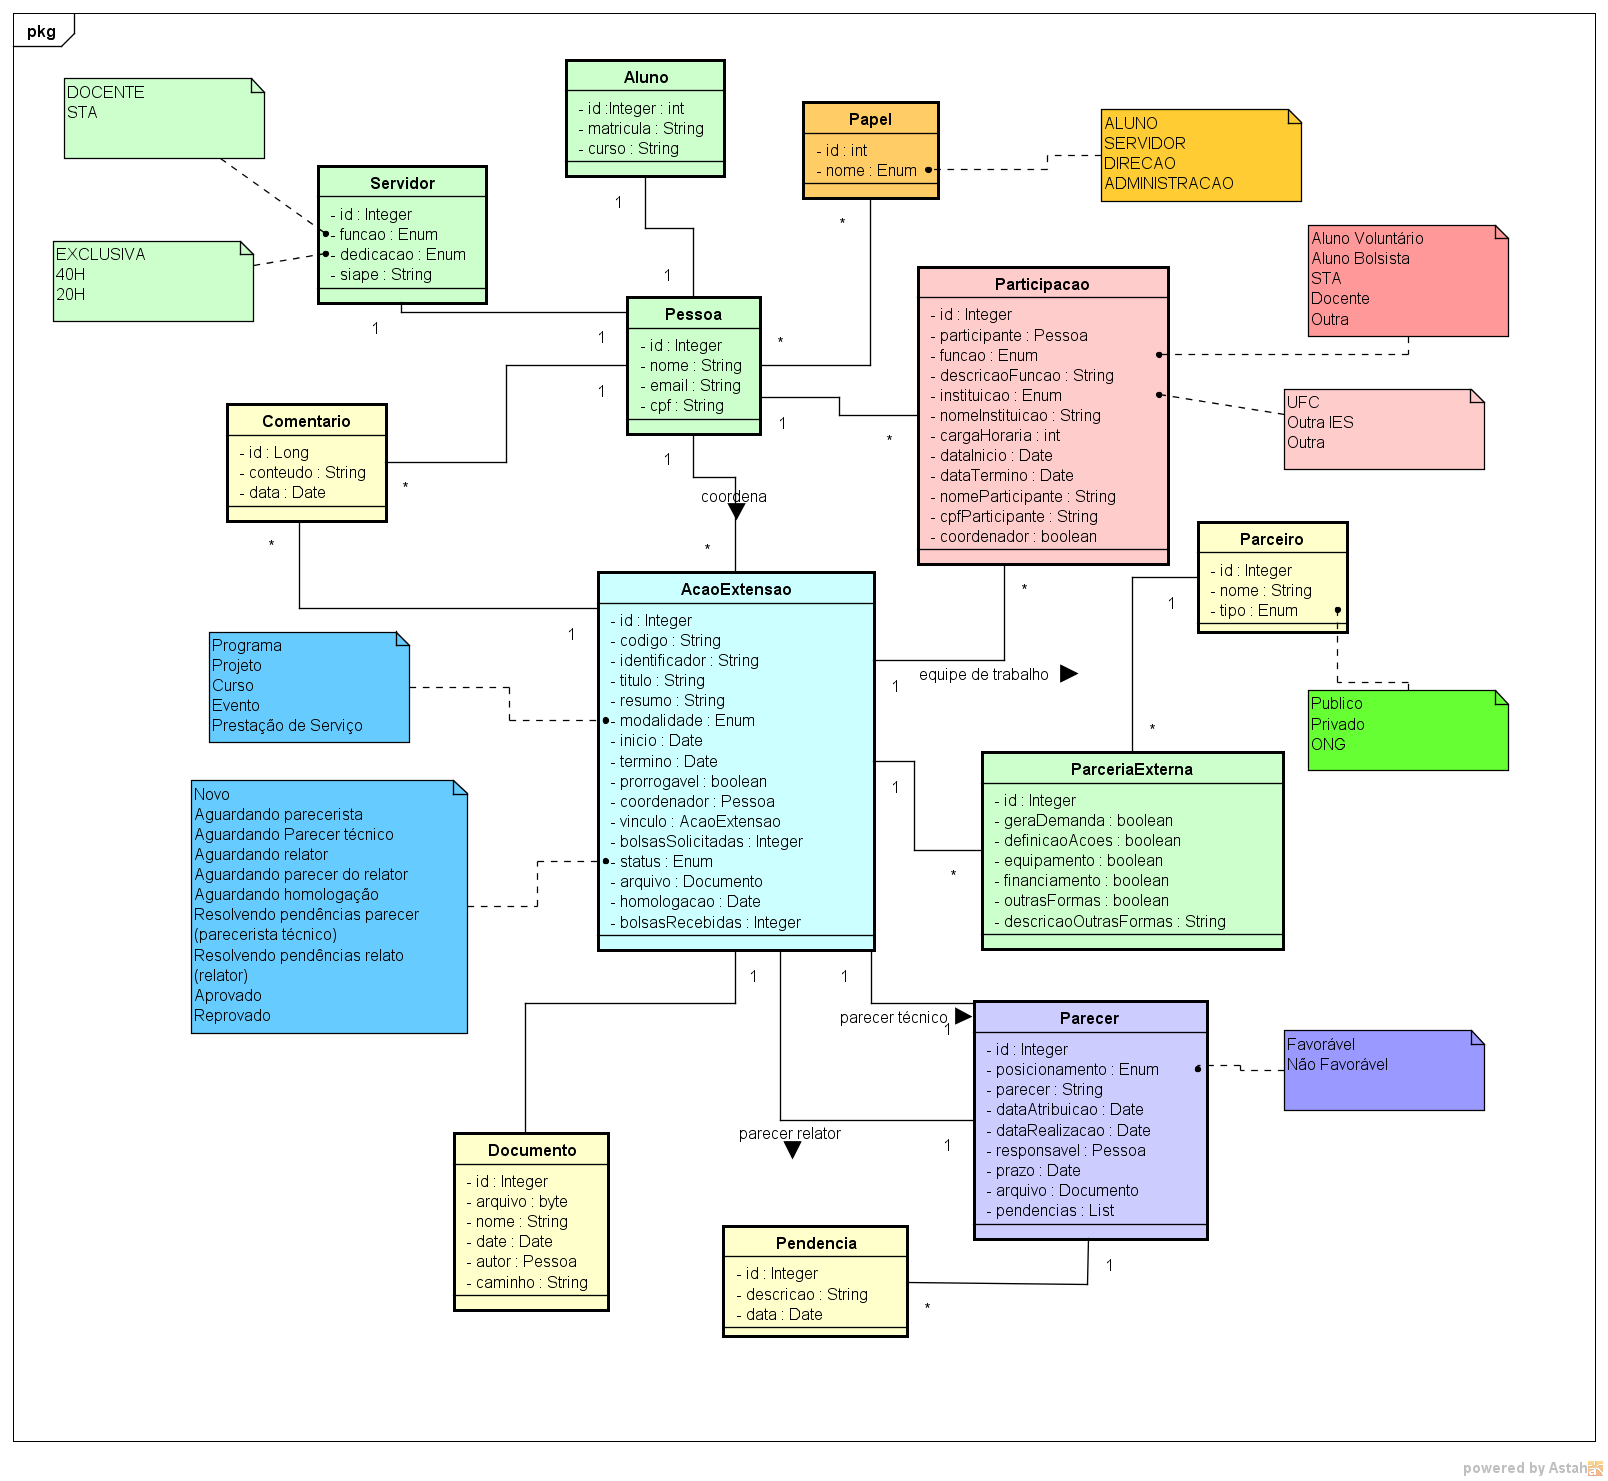
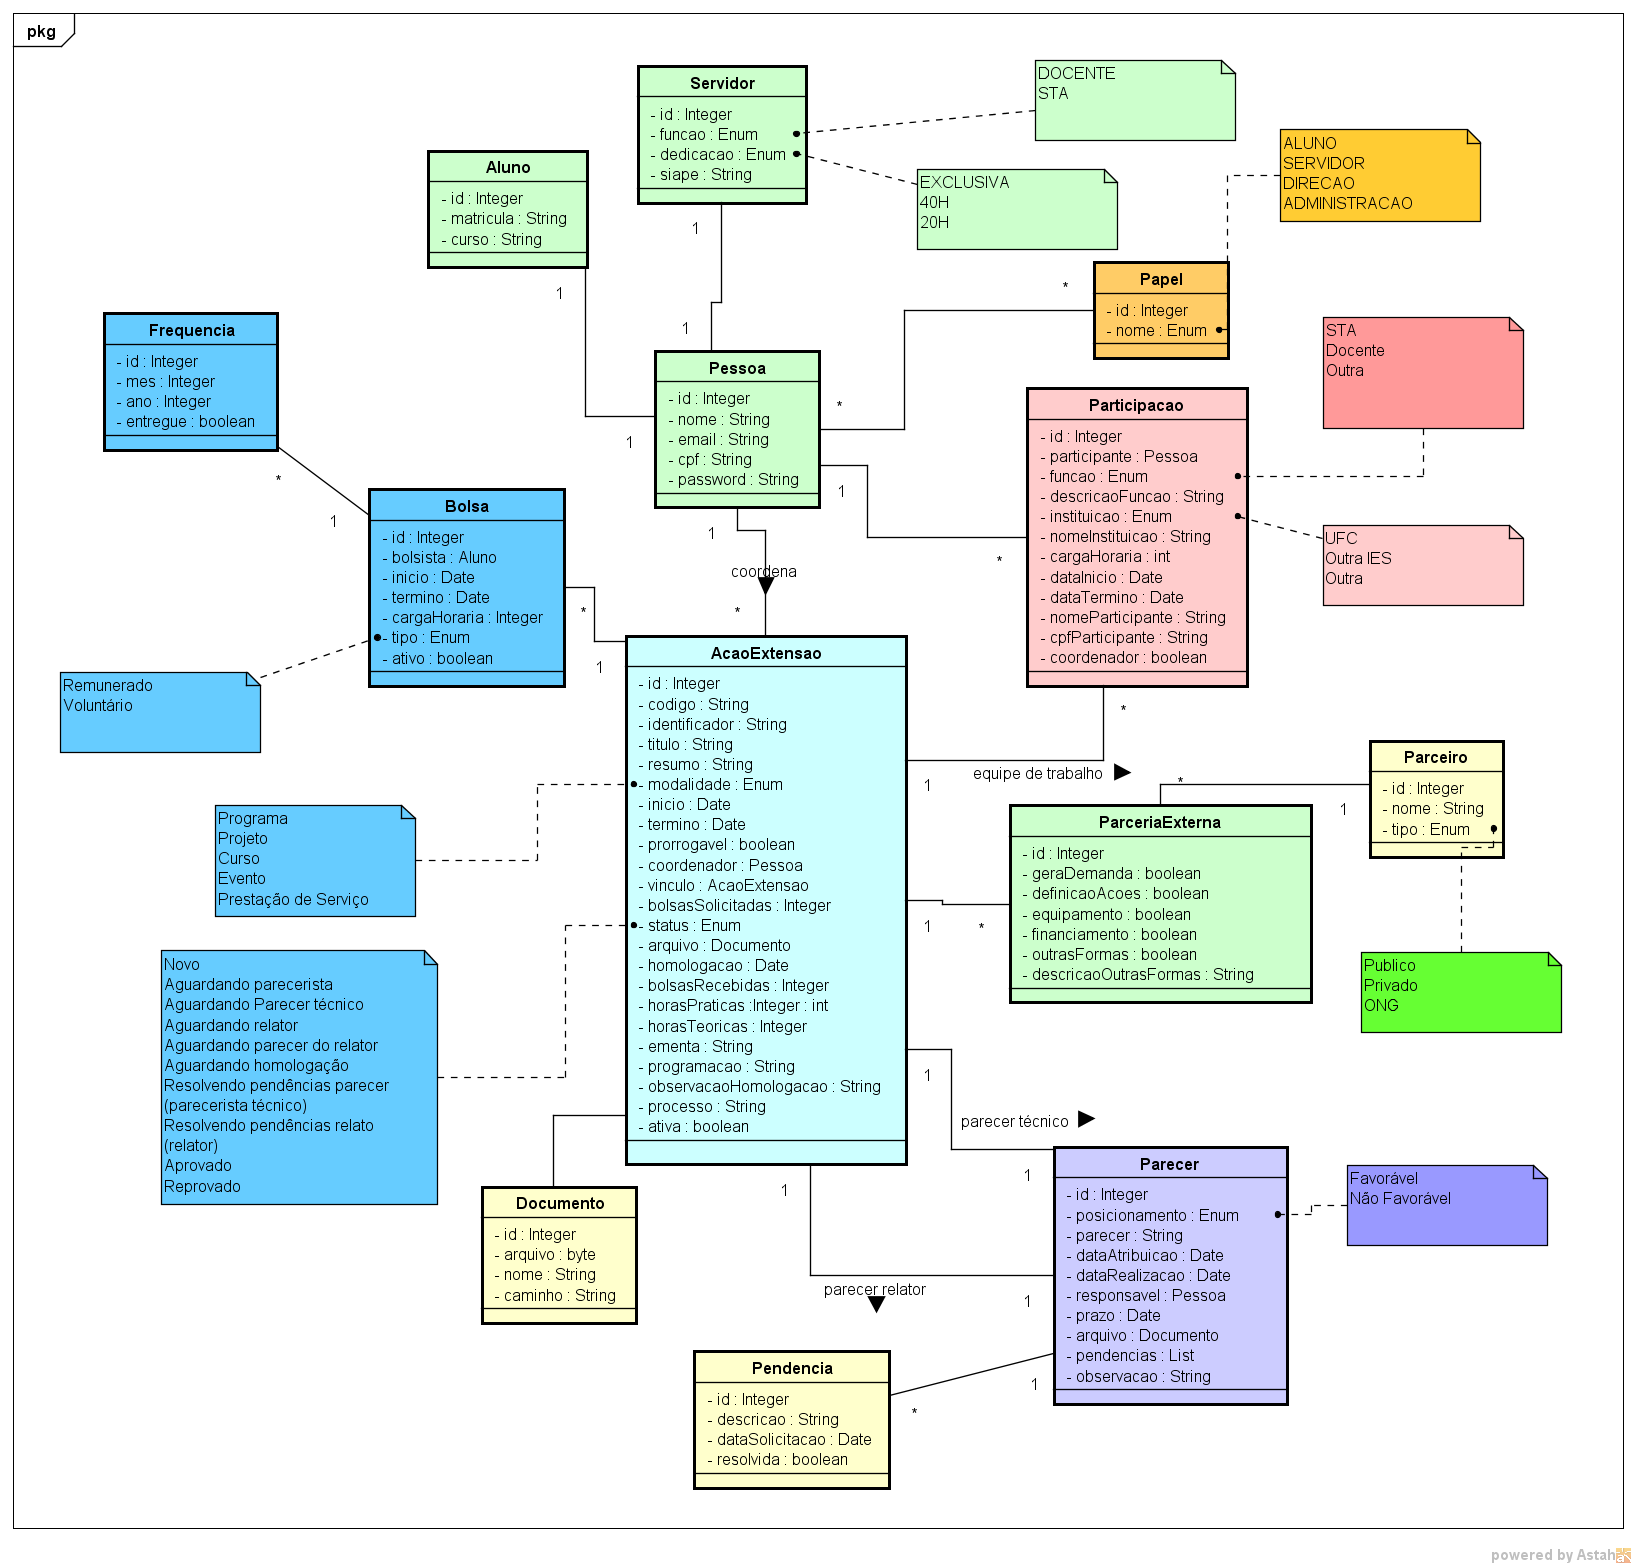
Atualização do diagrama de classes e remoçaõ de atributos de documento que não estavam sendo utilizados.

diff --git a/aplicacao/gpa-extensao/src/main/java/ufc/quixada/npi/gpa/model/Bolsa.java b/aplicacao/gpa-extensao/src/main/java/ufc/quixada/npi/gpa/model/Bolsa.java
@@ -15,24 +15,32 @@ import javax.persistence.OneToMany;
 
 @Entity
 public class Bolsa {
+	
 	@Id
-	@GeneratedValue(strategy=GenerationType.IDENTITY)
+	@GeneratedValue(strategy = GenerationType.IDENTITY)
 	private Integer id;
+	
 	@ManyToOne
 	private Aluno bolsista;
+	
 	private Date inicio;
+	
 	private Date termino;
+	
 	private Integer cargaHoraria;
+	
 	@Enumerated(EnumType.STRING)
 	private Tipo tipo;
+	
 	private boolean ativo;
+	
 	@OneToMany
 	private List<FrequenciaBolsista> frenquencias;
-	
-	public Bolsa(){
-		
+
+	public Bolsa() {
+
 	}
-	
+
 	public Bolsa(Aluno bolsista, Date inicio, Date termino, Integer cargaHoraria, Tipo tipo) {
 		super();
 		this.bolsista = bolsista;
@@ -46,87 +54,78 @@ public class Bolsa {
 		return id;
 	}
 
-
 	public void setId(Integer id) {
 		this.id = id;
 	}
-
 
 	public Aluno getBolsista() {
 		return bolsista;
 	}
 
-
 	public void setBolsista(Aluno bolsista) {
 		this.bolsista = bolsista;
 	}
-
 
 	public Date getInicio() {
 		return inicio;
 	}
 
-
 	public void setInicio(Date inicio) {
 		this.inicio = inicio;
 	}
-
 
 	public Date getTermino() {
 		return termino;
 	}
 
-
 	public void setTermino(Date termino) {
 		this.termino = termino;
 	}
-
 
 	public Integer getCargaHoraria() {
 		return cargaHoraria;
 	}
 
-
 	public void setCargaHoraria(Integer cargaHoraria) {
 		this.cargaHoraria = cargaHoraria;
 	}
-
 
 	public Tipo getTipo() {
 		return tipo;
 	}
 
-
 	public void setTipo(Tipo tipo) {
 		this.tipo = tipo;
 	}
-
 
 	public boolean isAtivo() {
 		return ativo;
 	}
 
-	public List<FrequenciaBolsista> getFrequencias(){
+	public List<FrequenciaBolsista> getFrequencias() {
 		return frenquencias;
 	}
-	public void addFrequencia(FrequenciaBolsista frequencia){
-		if(this.frenquencias==null){
+
+	public void addFrequencia(FrequenciaBolsista frequencia) {
+		if (this.frenquencias == null) {
 			this.frenquencias = new ArrayList<>();
 		}
 		this.frenquencias.add(frequencia);
 	}
-	enum Tipo{
-		REMUNERADO("Remunerado"),VOLUNTARIO("Voluntário");
+
+	enum Tipo {
+		REMUNERADO("Remunerado"), VOLUNTARIO("Voluntário");
 		private String descricao;
-		
-		private Tipo(String descricao){
-			this.descricao=descricao;
+
+		private Tipo(String descricao) {
+			this.descricao = descricao;
 		}
 
 		public String getDescricao() {
 			return descricao;
 		}
 	}
+
 	@Override
 	public int hashCode() {
 		final int prime = 31;
@@ -151,6 +150,5 @@ public class Bolsa {
 			return false;
 		return true;
 	}
-	
-	
+
 }

diff --git a/aplicacao/gpa-extensao/src/main/java/ufc/quixada/npi/gpa/model/Documento.java b/aplicacao/gpa-extensao/src/main/java/ufc/quixada/npi/gpa/model/Documento.java
@@ -1,13 +1,10 @@
 package ufc.quixada.npi.gpa.model;
 
-import java.util.Date;
-
 import javax.persistence.Entity;
 import javax.persistence.EntityListeners;
 import javax.persistence.GeneratedValue;
 import javax.persistence.GenerationType;
 import javax.persistence.Id;
-import javax.persistence.ManyToOne;
 import javax.validation.constraints.NotNull;
 
 @Entity
@@ -23,22 +20,15 @@ public class Documento {
 	@NotNull
 	private String nome;
 	
-	private Date data;
-	
-	@ManyToOne
-	private Pessoa autor;
-	
 	private String caminho;
 	
 	public Documento() {
 	}
 	
-	public Documento(byte[] arquivo, String nome, Date date, Pessoa autor, String caminho) {
+	public Documento(byte[] arquivo, String nome, String caminho) {
 		super();
 		this.arquivo = arquivo;
 		this.nome = nome;
-		this.data = date;
-		this.autor = autor;
 		this.caminho = caminho;
 	}
 	
@@ -64,22 +54,6 @@ public class Documento {
 
 	public void setNome(String nome) {
 		this.nome = nome;
-	}
-
-	public Date getData() {
-		return data;
-	}
-
-	public void setData(Date data) {
-		this.data = data;
-	}
-
-	public Pessoa getAutor() {
-		return autor;
-	}
-
-	public void setAutor(Pessoa autor) {
-		this.autor = autor;
 	}
 
 	public String getCaminho() {

diff --git a/aplicacao/gpa-extensao/src/main/java/ufc/quixada/npi/gpa/model/Parceiro.java b/aplicacao/gpa-extensao/src/main/java/ufc/quixada/npi/gpa/model/Parceiro.java
@@ -7,7 +7,6 @@ import javax.persistence.GeneratedValue;
 import javax.persistence.GenerationType;
 import javax.persistence.Id;
 import javax.validation.constraints.NotNull;
-import javax.validation.constraints.Size;
 
 @Entity
 public class Parceiro {
@@ -17,7 +16,6 @@ public class Parceiro {
 	private Integer id;
 	
 	@NotNull
-	@Size(min=2,message="Nome deve ter mais de 2 caracteres")
 	private String nome;
 	
 	@Enumerated(EnumType.STRING)

diff --git a/aplicacao/gpa-extensao/src/main/java/ufc/quixada/npi/gpa/model/AcaoExtensao.java b/aplicacao/gpa-extensao/src/main/java/ufc/quixada/npi/gpa/model/AcaoExtensao.java
@@ -31,6 +31,7 @@ public class AcaoExtensao {
 	private String identificador;
 	
 	private String titulo;
+	
 	@Column(columnDefinition = "TEXT")
 	private String resumo;
 	
@@ -89,7 +90,9 @@ public class AcaoExtensao {
 	
 	@OneToOne(cascade={CascadeType.MERGE, CascadeType.REMOVE})
 	private Parecer parecerRelator;
+	
 	private boolean ativo;
+	
 	public AcaoExtensao getVinculo() {
 		return vinculo;
 	}

diff --git a/aplicacao/gpa-extensao/src/main/java/ufc/quixada/npi/gpa/model/FrequenciaBolsista.java b/aplicacao/gpa-extensao/src/main/java/ufc/quixada/npi/gpa/model/FrequenciaBolsista.java
@@ -8,13 +8,18 @@ import javax.persistence.ManyToOne;
 
 @Entity
 public class FrequenciaBolsista {
+	
 	@Id
 	@GeneratedValue(strategy=GenerationType.IDENTITY)
 	private Integer id;
+	
 	@ManyToOne
 	private Bolsa bolsa;
+	
 	private Integer mes;
+	
 	private Integer ano;
+	
 	private boolean entregue;
 	
 	public FrequenciaBolsista(){
